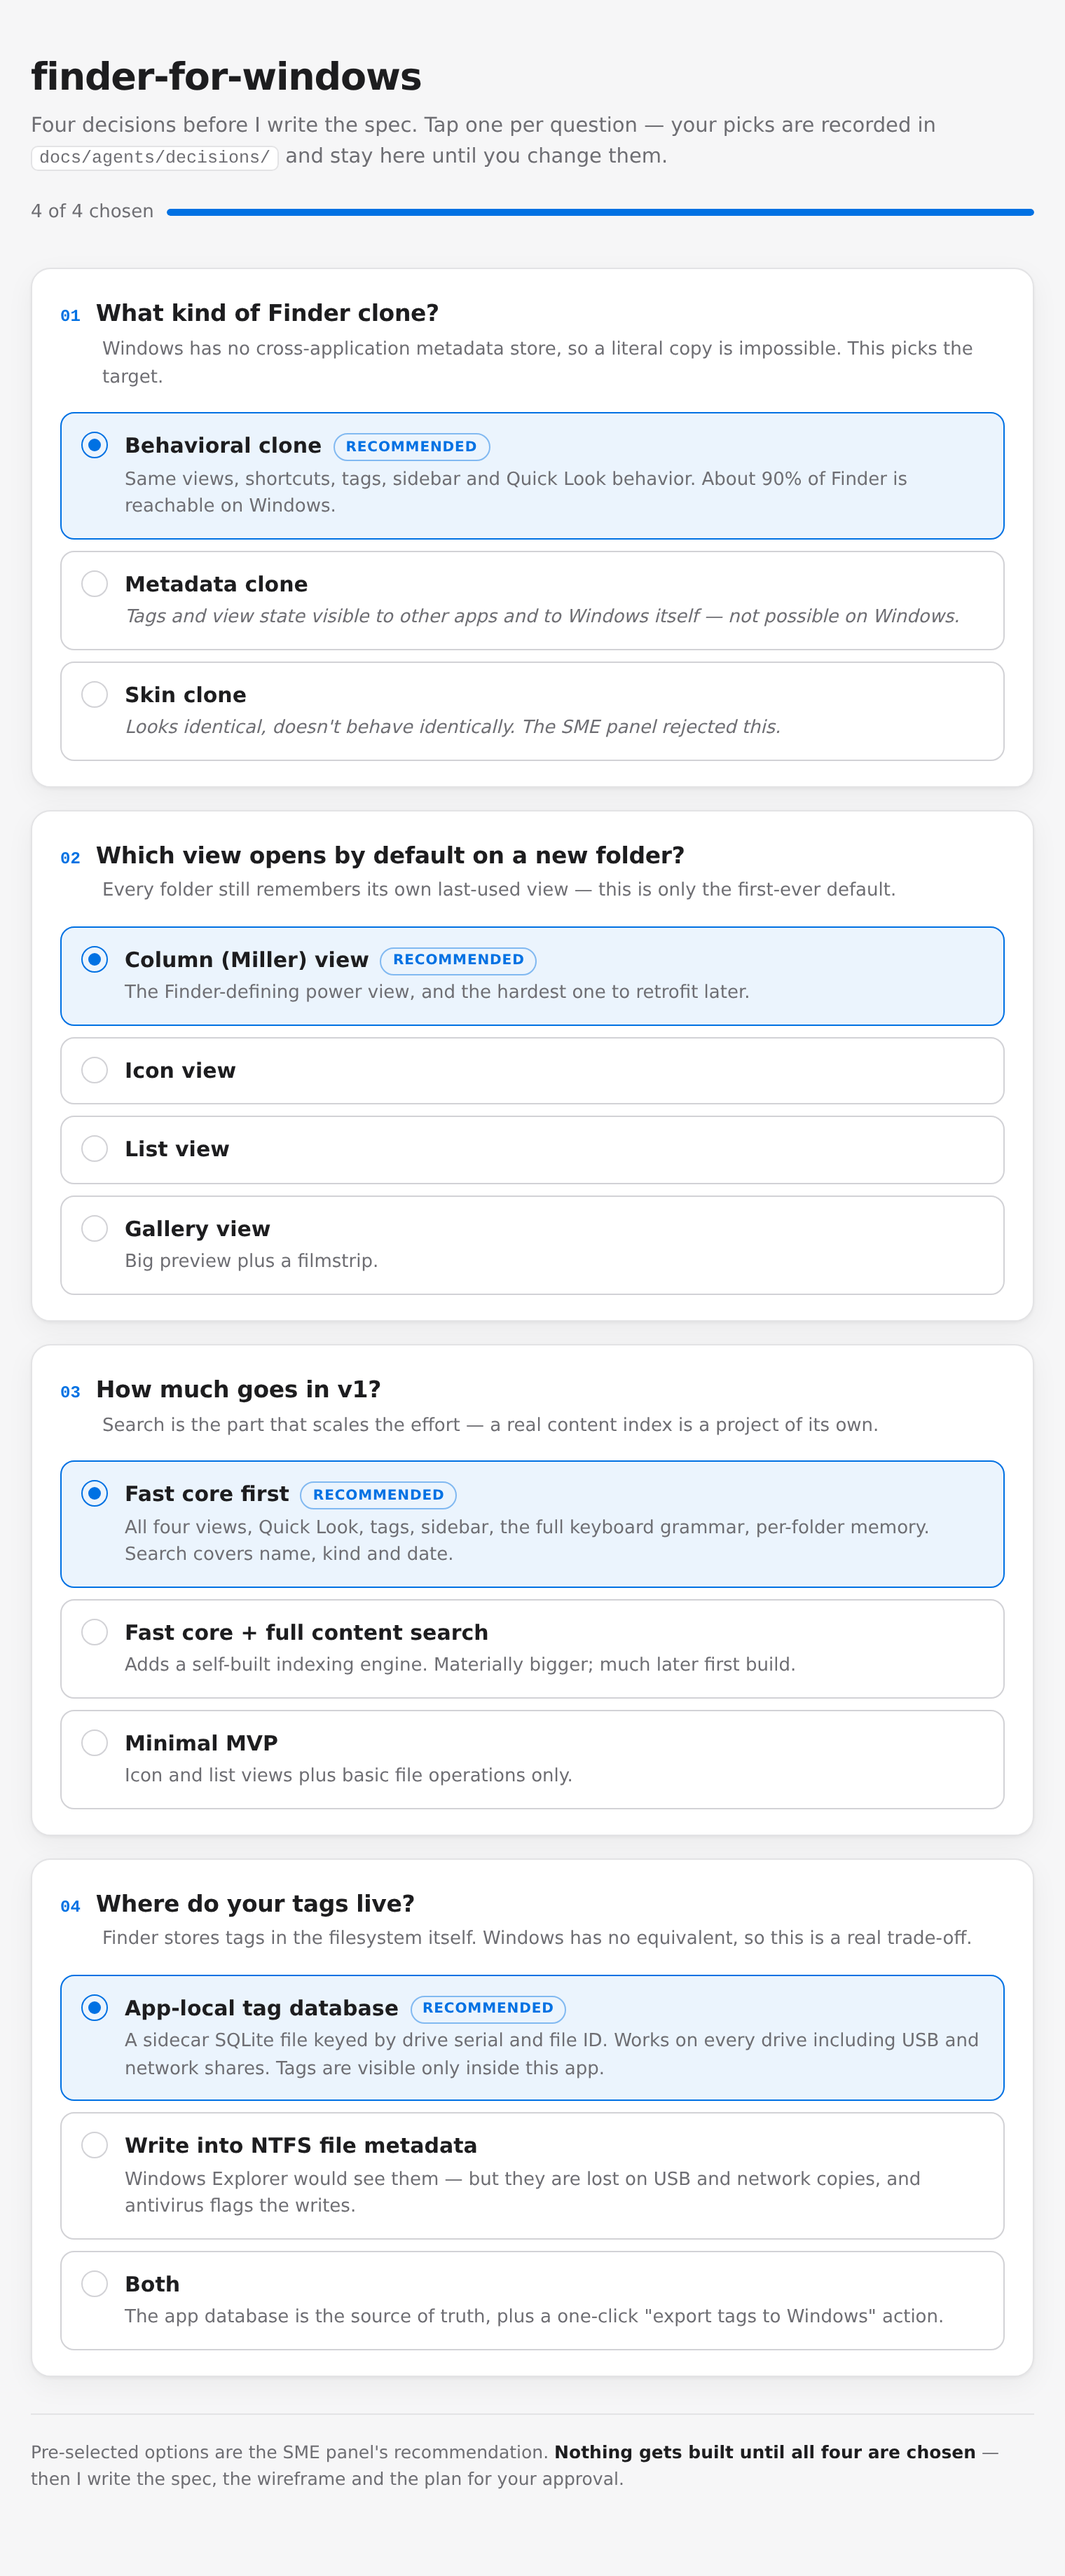
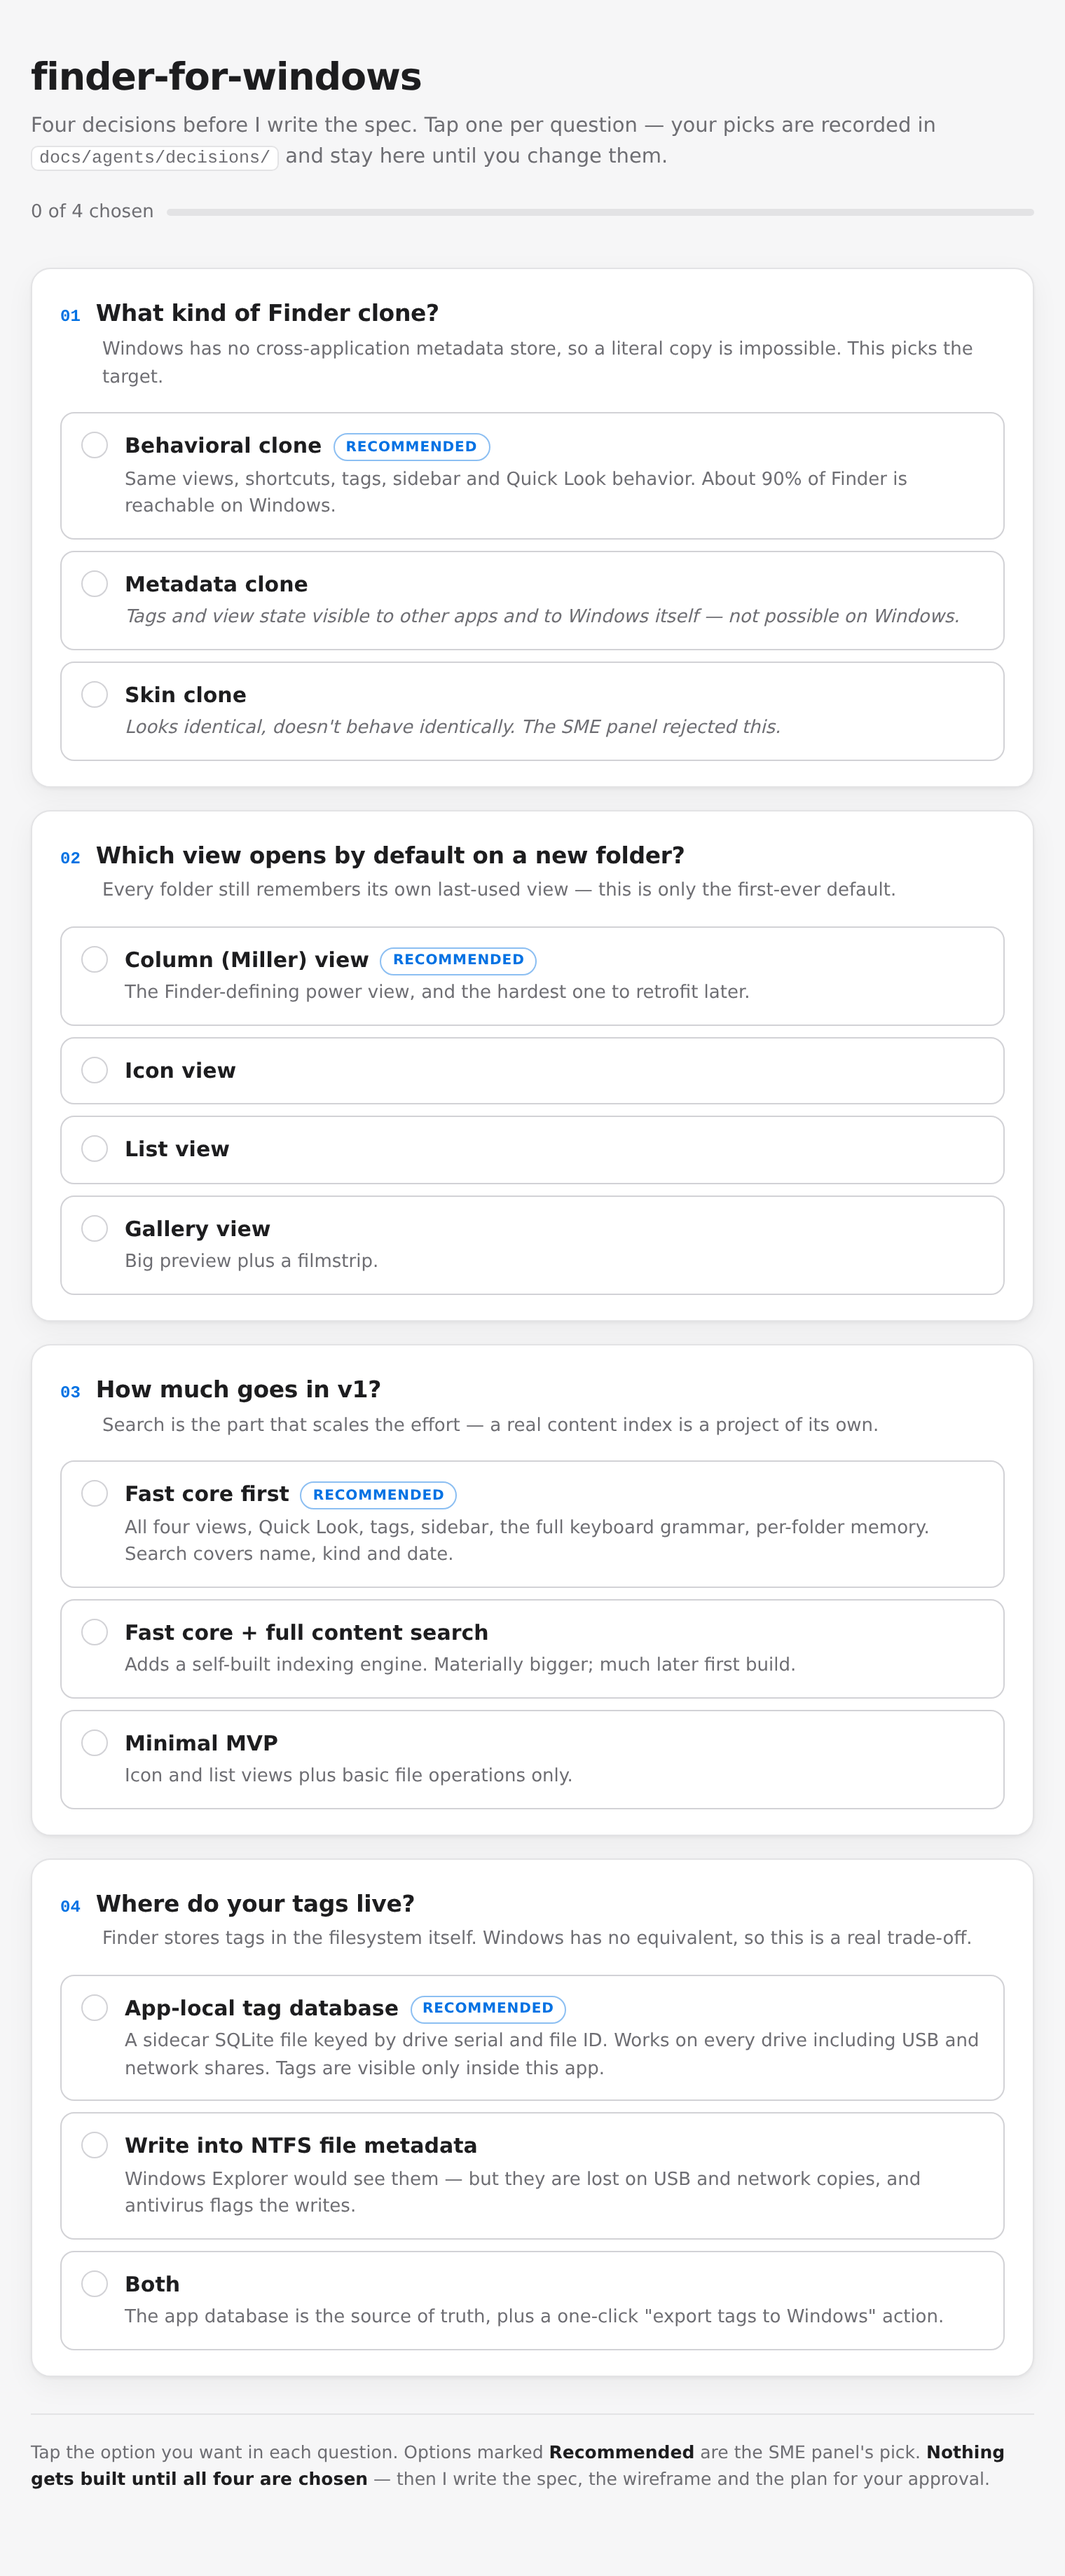
docs: correct the decision card (no false pre-selection, accurate footer)

diff --git a/docs/index.html b/docs/index.html
@@ -111,7 +111,7 @@
   <section class="card" data-q="D-0001">
     <div class="qhead"><span class="num">01</span><h2 class="qtext">What kind of Finder clone?</h2></div>
     <p class="qwhy">Windows has no cross-application metadata store, so a literal copy is impossible. This picks the target.</p>
-    <button class="opt" aria-pressed="true" data-hermes-send="Decision D-0001 = Behavioral clone — record it and continue.">
+    <button class="opt" aria-pressed="false" data-hermes-send="Decision D-0001 = Behavioral clone — record it and continue.">
       <span class="mark"></span>
       <span class="body"><span class="lbl">Behavioral clone</span><span class="rec">Recommended</span>
         <div class="note">Same views, shortcuts, tags, sidebar and Quick Look behavior. About 90% of Finder is reachable on Windows.</div></span>
@@ -131,7 +131,7 @@
   <section class="card" data-q="D-0002">
     <div class="qhead"><span class="num">02</span><h2 class="qtext">Which view opens by default on a new folder?</h2></div>
     <p class="qwhy">Every folder still remembers its own last-used view — this is only the first-ever default.</p>
-    <button class="opt" aria-pressed="true" data-hermes-send="Decision D-0002 = Column (Miller) view default — record it and continue.">
+    <button class="opt" aria-pressed="false" data-hermes-send="Decision D-0002 = Column (Miller) view default — record it and continue.">
       <span class="mark"></span>
       <span class="body"><span class="lbl">Column (Miller) view</span><span class="rec">Recommended</span>
         <div class="note">The Finder-defining power view, and the hardest one to retrofit later.</div></span>
@@ -151,7 +151,7 @@
   <section class="card" data-q="D-0003">
     <div class="qhead"><span class="num">03</span><h2 class="qtext">How much goes in v1?</h2></div>
     <p class="qwhy">Search is the part that scales the effort — a real content index is a project of its own.</p>
-    <button class="opt" aria-pressed="true" data-hermes-send="Decision D-0003 = Fast core first — record it and continue.">
+    <button class="opt" aria-pressed="false" data-hermes-send="Decision D-0003 = Fast core first — record it and continue.">
       <span class="mark"></span>
       <span class="body"><span class="lbl">Fast core first</span><span class="rec">Recommended</span>
         <div class="note">All four views, Quick Look, tags, sidebar, the full keyboard grammar, per-folder memory. Search covers name, kind and date.</div></span>
@@ -171,7 +171,7 @@
   <section class="card" data-q="D-0004">
     <div class="qhead"><span class="num">04</span><h2 class="qtext">Where do your tags live?</h2></div>
     <p class="qwhy">Finder stores tags in the filesystem itself. Windows has no equivalent, so this is a real trade-off.</p>
-    <button class="opt" aria-pressed="true" data-hermes-send="Decision D-0004 = App-local tag database — record it and continue.">
+    <button class="opt" aria-pressed="false" data-hermes-send="Decision D-0004 = App-local tag database — record it and continue.">
       <span class="mark"></span>
       <span class="body"><span class="lbl">App-local tag database</span><span class="rec">Recommended</span>
         <div class="note">A sidecar SQLite file keyed by drive serial and file ID. Works on every drive including USB and network shares. Tags are visible only inside this app.</div></span>
@@ -189,7 +189,7 @@
   </section>
 
   <footer>
-    Pre-selected options are the SME panel's recommendation. <strong>Nothing gets built until all four are chosen</strong> — then I write the spec, the wireframe and the plan for your approval.
+    Tap the option you want in each question. Options marked <strong>Recommended</strong> are the SME panel's pick. <strong>Nothing gets built until all four are chosen</strong> — then I write the spec, the wireframe and the plan for your approval.
     <span id="sentmsg" class="sent"></span>
   </footer>
 </div>
